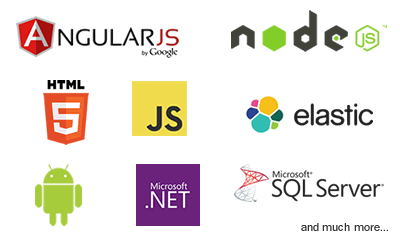
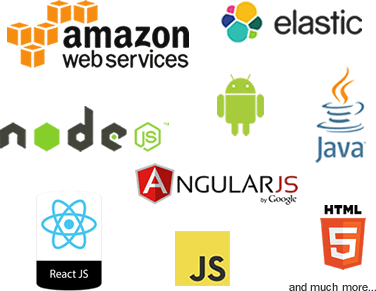
fix links

diff --git a/index.html b/index.html
@@ -8,9 +8,9 @@
         <!-- favicon -->
         <link rel="shortcut icon" href="img/favicon.png" />
 
-        <link rel="stylesheet" type="text/css" href="//fonts.googleapis.com/css?family=Open+Sans:400italic,300,400,600,700&amp;subset=latin,latin-ext">
+        <link rel="stylesheet" type="text/css" href="http://fonts.googleapis.com/css?family=Open+Sans:400italic,300,400,600,700&amp;subset=latin,latin-ext">
         <!--link href="themes/visia/css/bootstrap.css" rel="stylesheet" type="text/css"-->
-        
+
         <link rel='stylesheet' id='pe_theme_visia-loader-css'  href='themes/visia/css/loader.css?ver=1437867176' type='text/css' media='all' />
         <link rel='stylesheet' id='pe_theme_visia-reset-css'  href='themes/visia/css/reset.css?ver=1437867176' type='text/css' media='all' />
         <link rel='stylesheet' id='pe_theme_visia-grid-css'  href='themes/visia/css/grid.css?ver=1437867176' type='text/css' media='all' />
@@ -29,8 +29,8 @@
         <script type='text/javascript' src='themes/visia/framework/js/selectivizr-min.js?ver=1437867183'></script>
 
         <link href="themes/visia/css/entypo-icon-font.css" rel="stylesheet" type="text/css">
-        
-        <link href="site.css?v=1" rel="stylesheet" type="text/css">
+
+        <link href="site.css?v=2" rel="stylesheet" type="text/css">
         <script type="text/javascript">
             var _gaq = _gaq || [];
             _gaq.push(['_setAccount', 'UA-59951082-1']);
@@ -43,7 +43,7 @@
         </script>
     </head>
     <body class="home page page-id-55 page-parent page-template page-template-page_home">
-        
+
         <!-- Begin Navigation -->
         <nav class="clearfix">
 
@@ -113,7 +113,7 @@
             </div>
             </div>
             <div class="clearfix"></div>
-            <div class="animated slide" data-appear-bottom-offset="100"><img alt="" width="400" height="240" src="img/technologies.png"/></div>
+            <div class="animated slide" data-appear-bottom-offset="100"><img alt="" width="400" height="240" src="img/technologies.png?v=1"/></div>
         </section>
 
         <section class="colored clearfix" id="services">
@@ -121,7 +121,7 @@
                 <div class="title grid-full">
                   <h2>O QUE FAZEMOS</h2>
                   <span class="border"></span>
-                  <div class="sub-heading">     
+                  <div class="sub-heading">
                       <p>SOFTWARE</p>
                       <p>Desenvolvemos software utilizando as mais modernas tecnologias.</p>
                       <p>MOBILE</p>
@@ -130,7 +130,7 @@
                       <p>Nos quer como parte da sua equipe? A Z3 ajuda a sua empresa a ser mais produtiva!</p>
                   </div>
             </div>
-            <div class="clearfix"></div>          
+            <div class="clearfix"></div>
                 <!-- Icons -->
                 <ul class="icons clearfix">
                     <!-- Single Icon -->
@@ -221,7 +221,7 @@
                         <h4>DATA</h4>
                     </li>
                 </ul>
-          </div>  
+          </div>
         </section>
 
         <section class="clearfix" id="clients">
@@ -229,7 +229,7 @@
                 <div class="title grid-full">
                   <h2>CLIENTES</h2>
                   <span class="border"></span>
-                  <div class="sub-heading">     
+                  <div class="sub-heading">
                       <ul class="clients clearfix">
                           <li class="grid-4-parts"><a href="http://eov.ae/" target="_blank"><img class="eov" src="img/eov.png" alt="EOV" /></a></li>
                           <li class="grid-4-parts"><a href="http://www.ked.com.br/" target="_blank"><img class="ked" src="img/ked.png" alt="K&#038;D" /></a></li>
@@ -277,8 +277,8 @@
             </div>
         </footer>
         <!-- End Footer -->
-                  
-          
+
+
         <script type='text/javascript' src='themes/visia/framework/js/pe/boot.js?ver=1437867180'></script>
         <script type='text/javascript' src='themes/visia/framework/js/jquery.mobile.custom.min.js?ver=1437867180'></script>
         <script type='text/javascript' src='themes/visia/framework/js/pe/jquery.pixelentity.lazyload.js?ver=1437867181'></script>
@@ -300,7 +300,6 @@
         <script type='text/javascript' src='themes/visia/framework/js/pe/jquery.pixelentity.simplethumb.js?ver=1437867181'></script>
         <script type='text/javascript' src='themes/visia/framework/js/pe/jquery.pixelentity.flare.lightbox.render.gallery.js?ver=1437867180'></script>
         <script type='text/javascript' src='themes/visia/framework/js/pe/jquery.pixelentity.flare.lightbox.render.image.js?ver=1437867180'></script>
-        <script type='text/javascript' src='themes/visia/js/smoothscroll.js?ver=1437867195'></script>
         <script type='text/javascript' src='themes/visia/js/vegas.js?ver=1437867195'></script>
         <script type='text/javascript' src='themes/visia/js/jquery.imagesloaded.js?ver=1437867194'></script>
         <script type='text/javascript' src='themes/visia/js/jquery.mixitup.js?ver=1437867195'></script>
@@ -316,8 +315,8 @@
         <script type='text/javascript' src='themes/visia/js/navigation.js?ver=1437867195'></script>
         <script type='text/javascript' src='themes/visia/js/jquery.easing.js?ver=1437867194'></script>
         <script type='text/javascript' src='themes/visia/js/jquery.fittext.js?ver=1437867194'></script>
-        <script type='text/javascript' src='themes/visia/js/jquery.localscroll.js?ver=1437867195'></script>
-        <script type='text/javascript' src='themes/visia/js/jquery.scrollto.js?ver=1437867195'></script>
+        <script src="http://cdn.jsdelivr.net/npm/jquery.localscroll@2.0.0/jquery.localScroll.min.js"></script>
+        <script src="http://cdn.jsdelivr.net/npm/jquery.scrollto@2.1.2/jquery.scrollTo.min.js"></script>
         <script type='text/javascript' src='themes/visia/js/jquery.appear.js?ver=1437867194'></script>
         <script type='text/javascript' src='themes/visia/js/jquery.waitforimages.js?ver=1437867195'></script>
         <script type='text/javascript' src='themes/visia/js/jquery.bxslider.js?ver=1437867194'></script>

diff --git a/site.css b/site.css
@@ -24,12 +24,12 @@
 
 .clients ::selection {
     background: #fff;
-    color: #060606; 
+    color: #060606;
 }
 
-.clients ::-moz-selection { 
+.clients ::-moz-selection {
     background: #fff;
-    color: #060606; 
+    color: #060606;
 }
 
 .clients li img {
@@ -42,12 +42,12 @@
     font-weight: 300;
     margin-bottom: 20px;
     opacity: .5;
-    filter: alpha(opacity=50); 
+    filter: alpha(opacity=50);
 }
 
 .clients a:hover {
     opacity: 1;
-    filter: alpha(opacity=100); 
+    filter: alpha(opacity=100);
 }
 
 .clients-heading {
@@ -71,6 +71,10 @@
 
 .icons .overview {
     width: 25%;
+}
+
+.content {
+	padding-bottom: 20px;
 }
 
 @media only screen and (max-width: 959px) {
